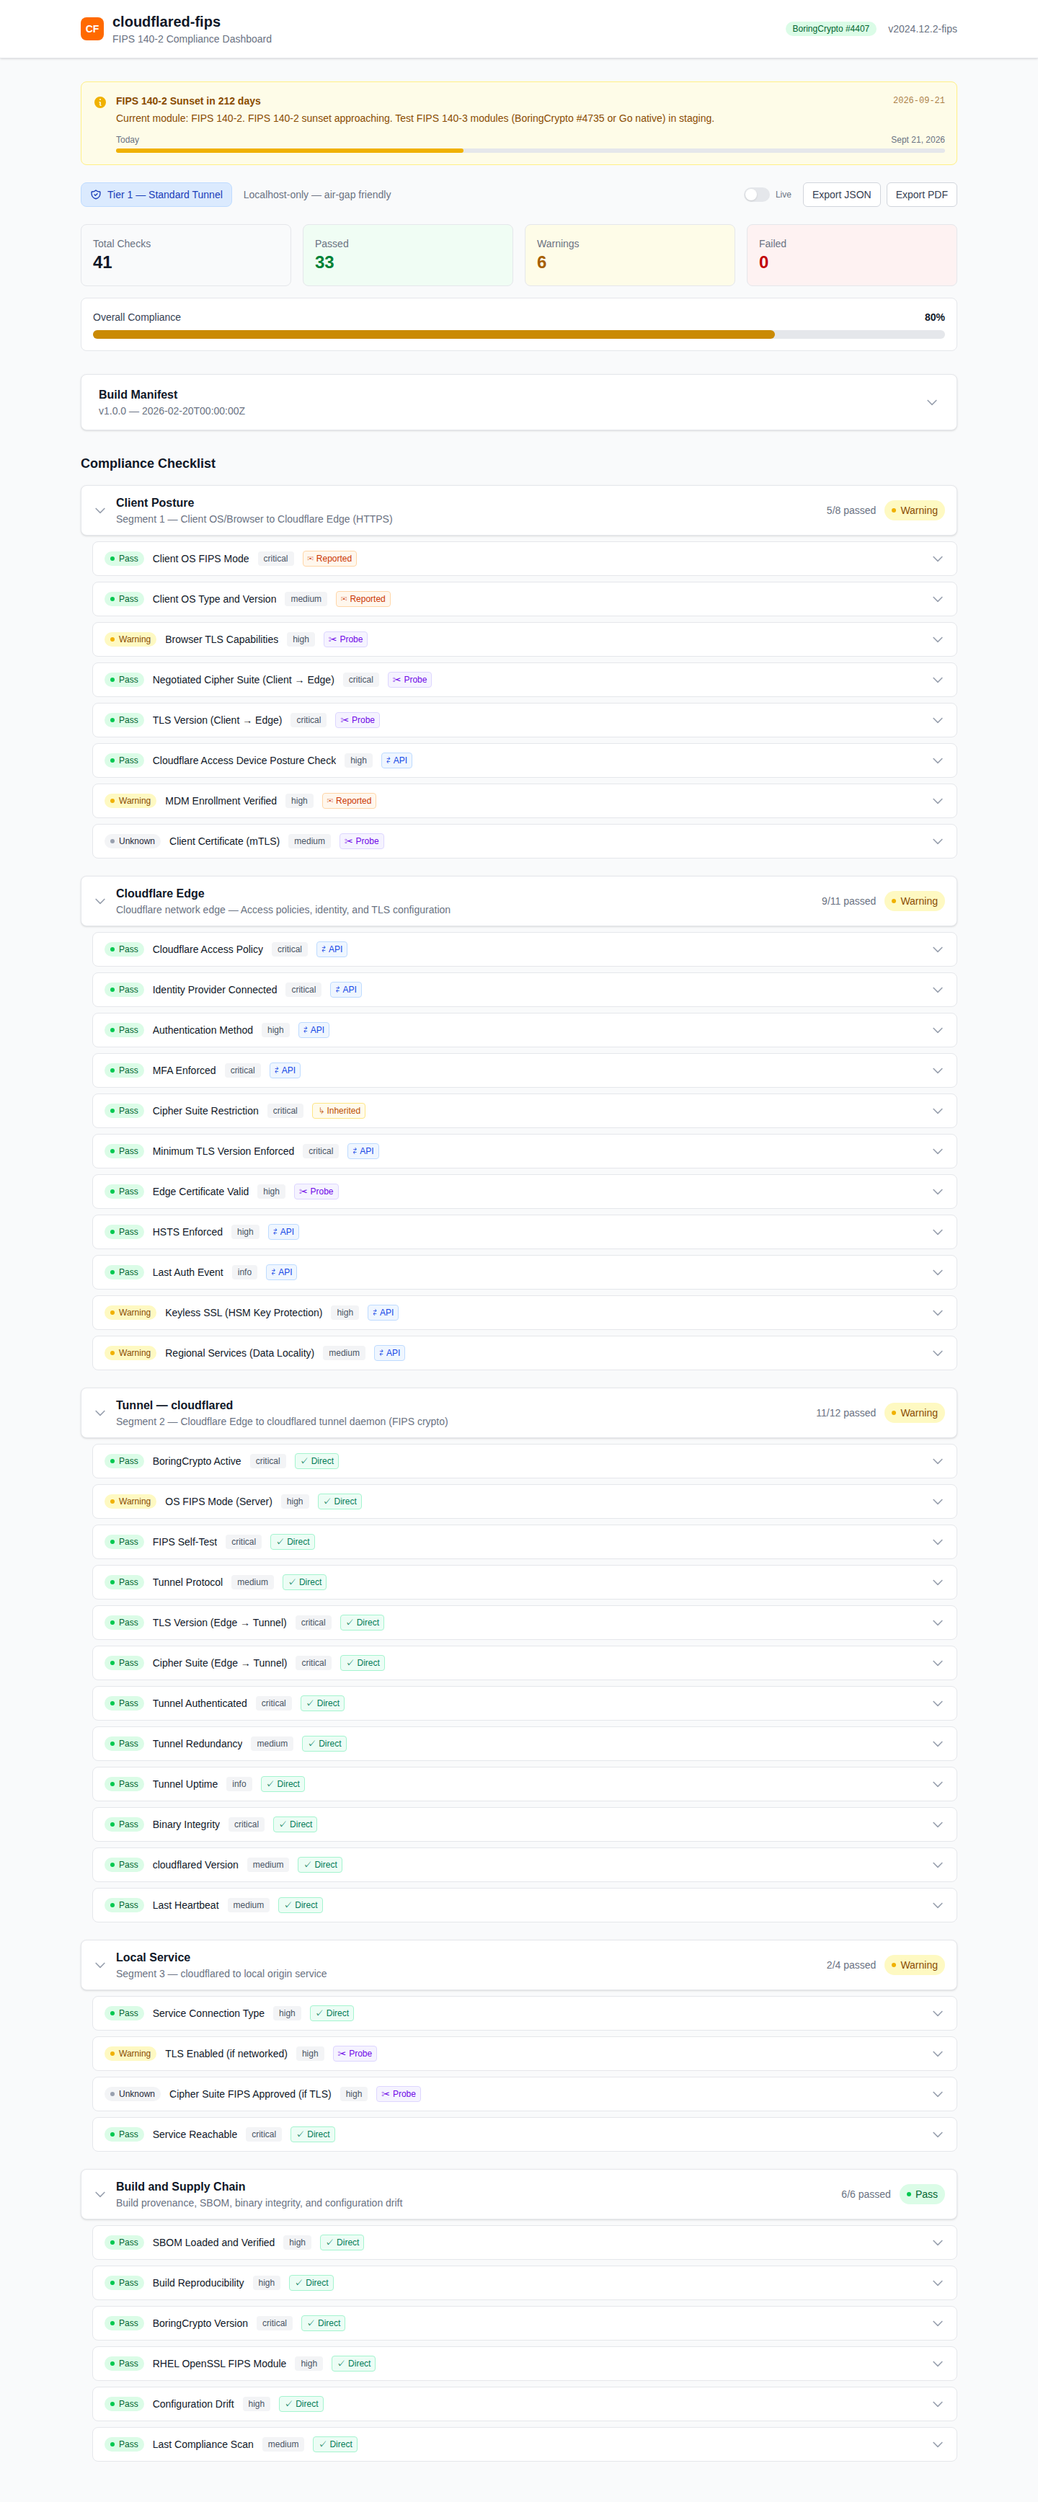
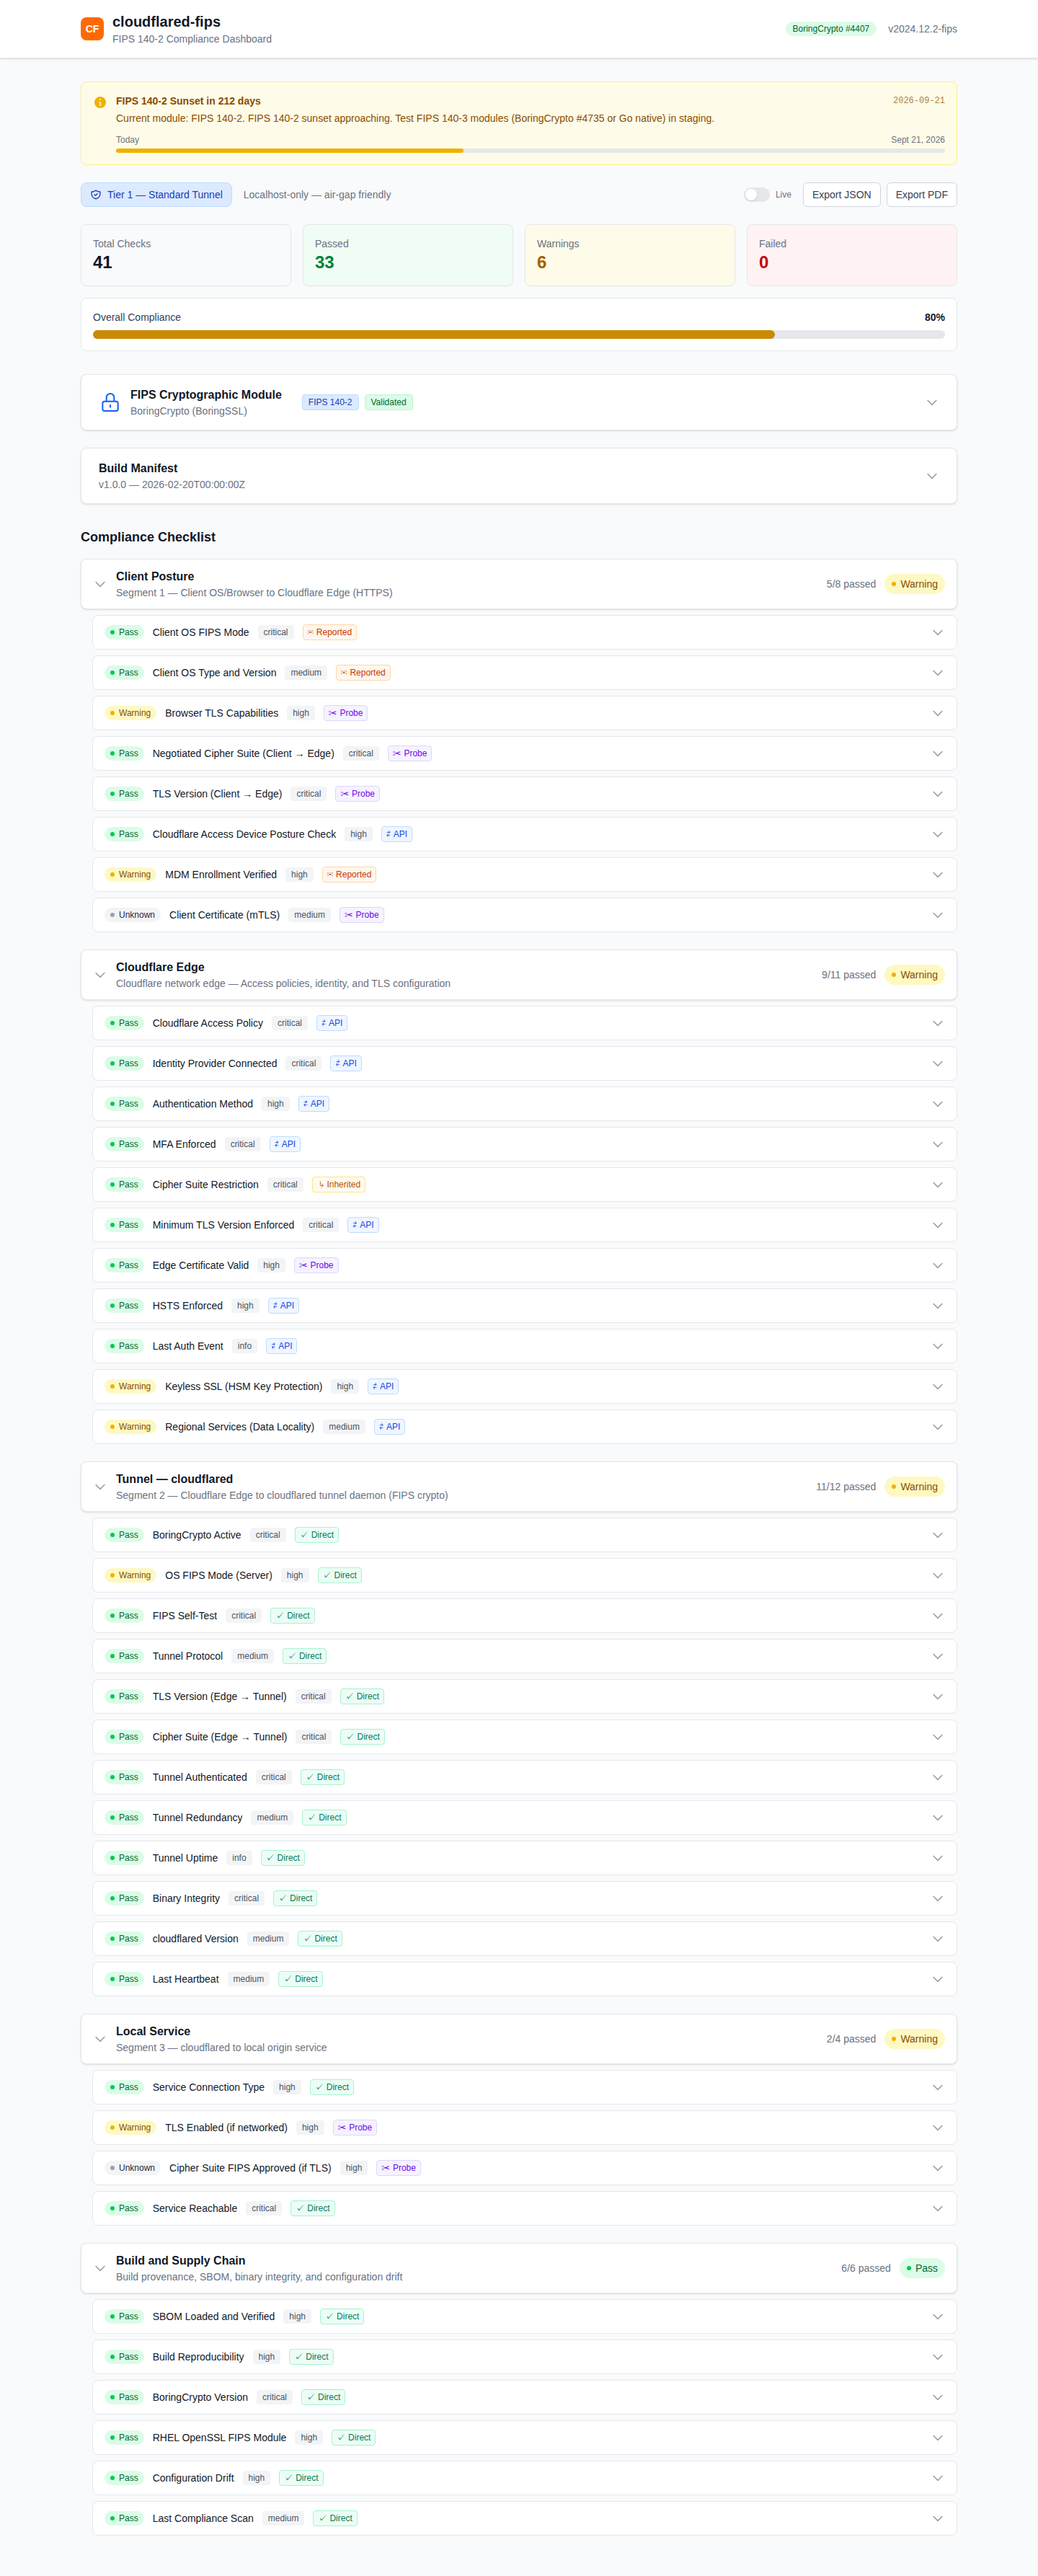
Update dashboard screenshots and README for FIPS backend card
Screenshots now show the new FIPS Cryptographic Module card with active
backend name, CMVP certificate, and FIPS 140-2/3 badge. README updated
with new /api/v1/backend endpoint and screenshot descriptions.

diff --git a/README.md b/README.md
@@ -218,12 +218,12 @@ The compliance dashboard displays 41 checklist items across five sections:
 ### Screenshots
 
 #### Dashboard Overview
-FIPS 140-2 sunset countdown banner, Tier 1 deployment badge, 41 compliance checks with pass/warn/fail summary, verification method badges, and live SSE toggle.
+FIPS 140-2 sunset countdown banner, Tier 1 deployment badge, FIPS Cryptographic Module card (showing active backend, CMVP cert, 140-2/3 badge), 41 compliance checks with pass/warn/fail summary, verification method badges, and live SSE toggle.
 
 ![Dashboard Overview](docs/screenshots/dashboard-overview.png)
 
 #### Full Dashboard
-All five sections with status, severity, and verification method per item.
+All five sections with status, severity, and verification method per item. FIPS backend card and build manifest expandable above the checklist.
 
 ![Full Dashboard](docs/screenshots/dashboard-full.png)
 
@@ -249,6 +249,7 @@ Sunset banner with progress bar, deployment tier badge, compliance summary (80%)
 | `GET /api/v1/compliance` | Full compliance state (all sections) |
 | `GET /api/v1/manifest` | Build manifest |
 | `GET /api/v1/selftest` | On-demand FIPS self-test |
+| `GET /api/v1/backend` | Active FIPS crypto backend info |
 | `GET /api/v1/events` | SSE stream (real-time updates) |
 | `GET /api/v1/clients` | TLS ClientHello inspection results |
 | `GET /api/v1/posture` | Device posture reports |
